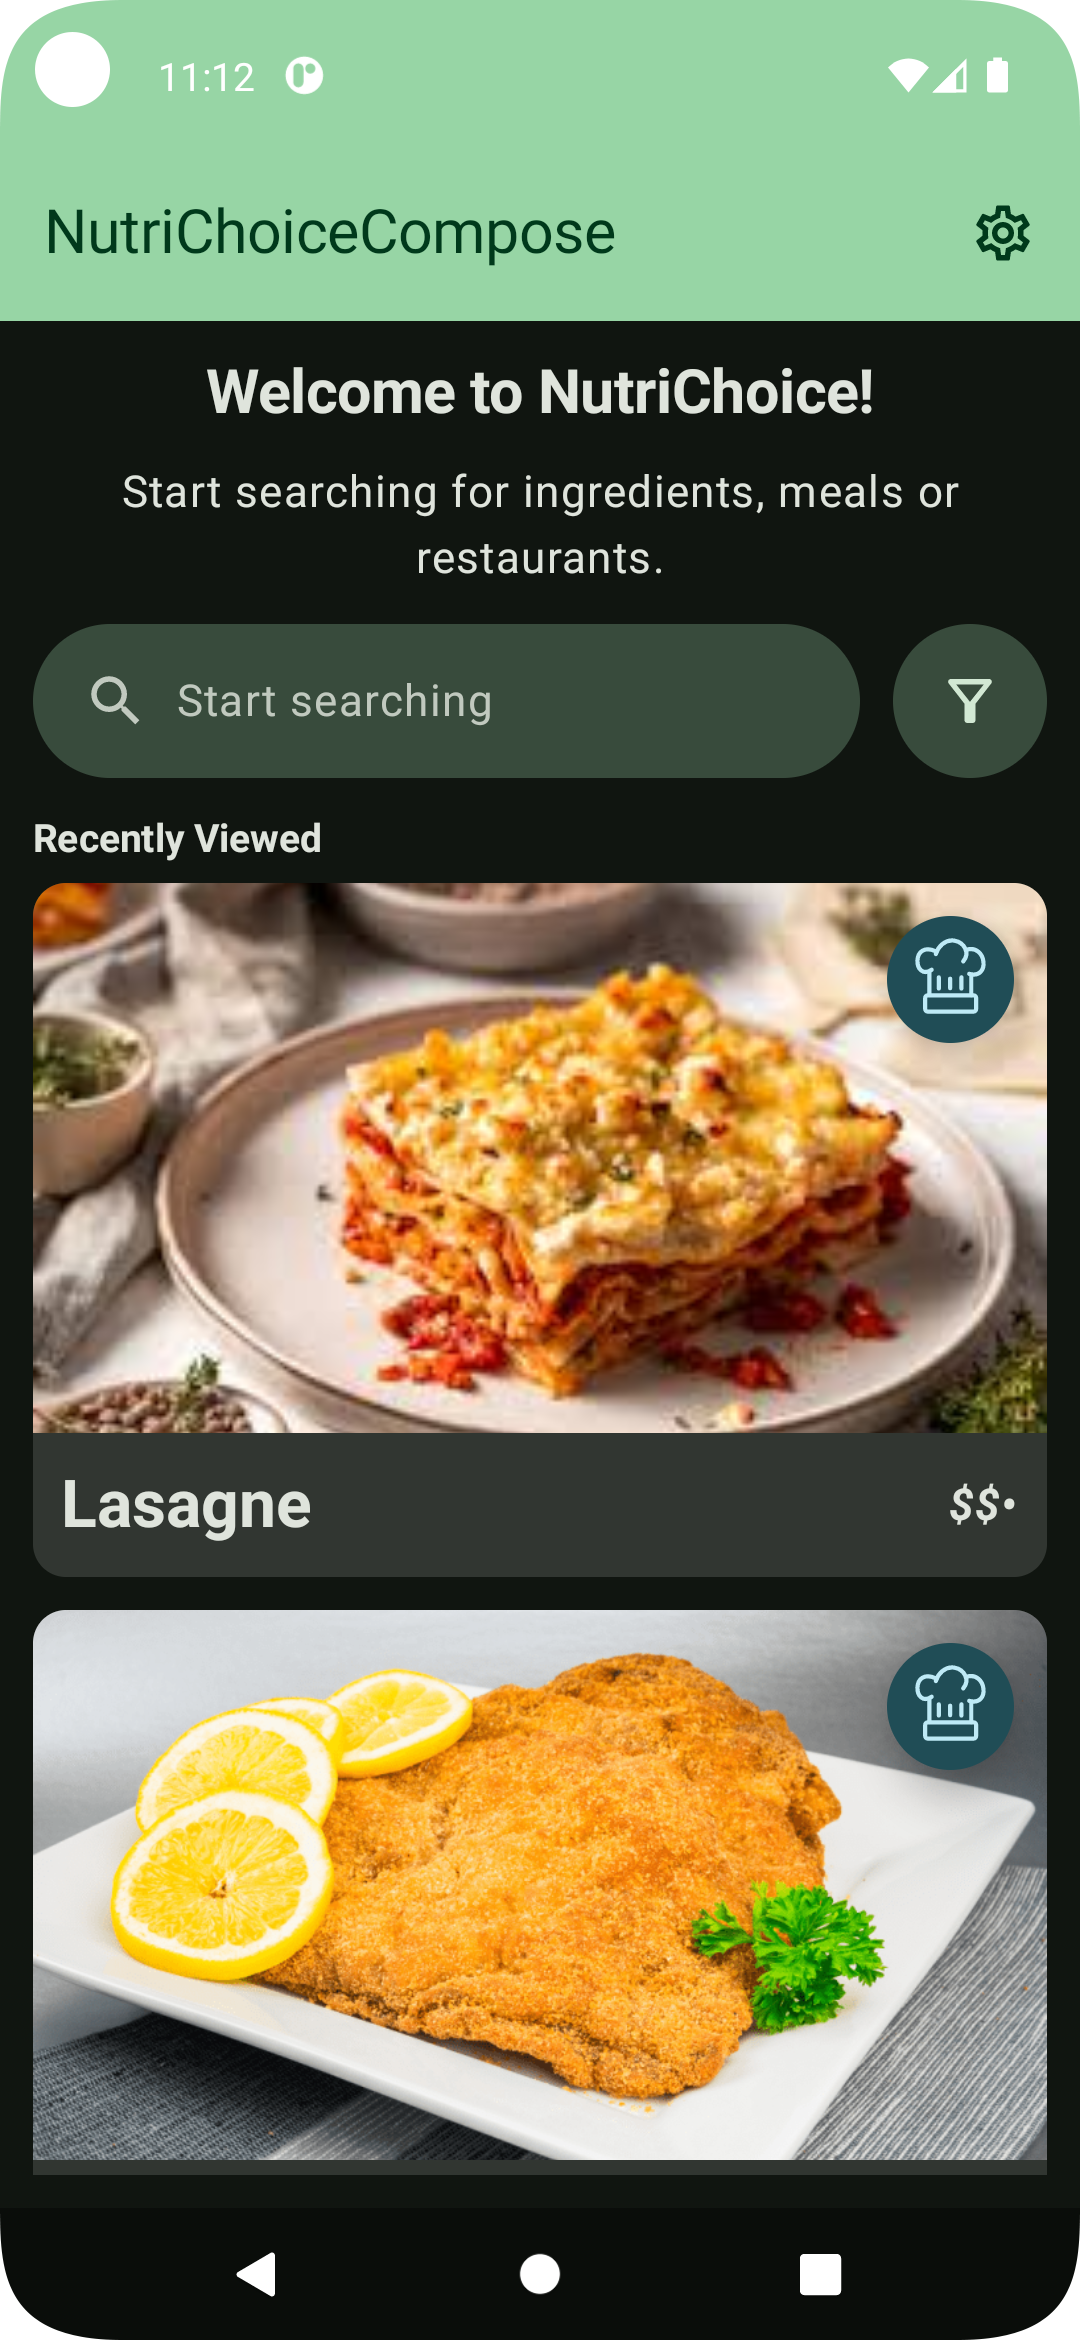
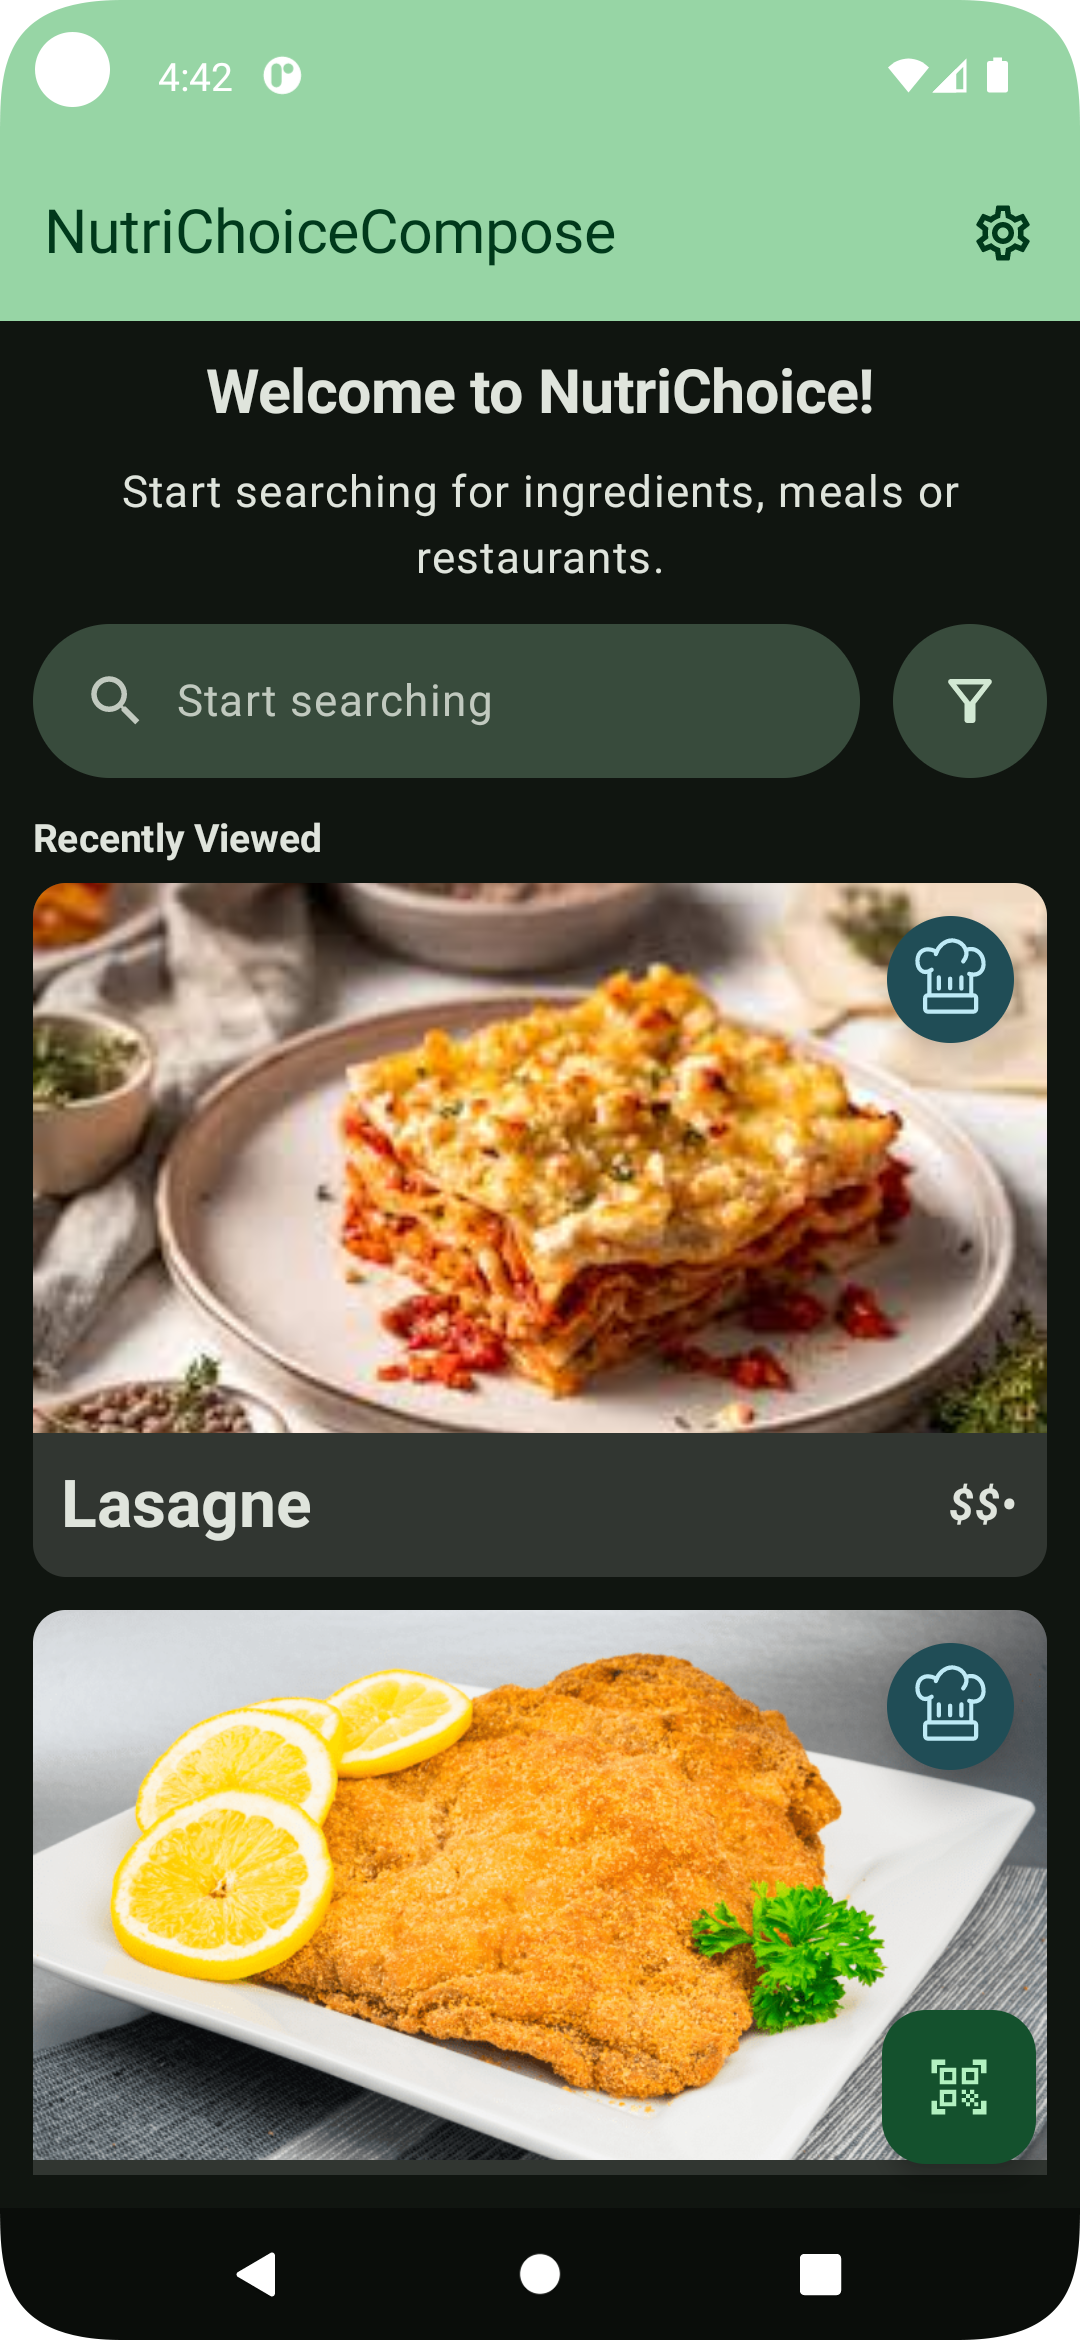
Update pictures in `README`
Add the QR scanner screen and update the home screen pic because of the floating action button.

Changed region(s): [[0.7944, 0.8423, 0.9778, 0.9359], [0.2444, 0.0, 0.3056, 0.0624], [0.1528, 0.0312, 0.2139, 0.0624]]

diff --git a/README.md b/README.md
@@ -22,6 +22,10 @@ UI made for the Pixel 5 API 30 Android Emulator
     <tr>
         <th><img src="assets/FoodDetailScreenIngredientsDark.png" alt="Food detail screen scrolled down to the ingredients in dark mode"></th>
         <th><img src="assets/SettingsScreenDark.png" alt="Settings screen in dark mode"></th>
+        <th><img src="assets/QRScannerScreenPermissionRequestDark.png" alt="QR scanner screen permission request in dark mode"></th>
+    </tr>
+    <tr>
+        <th><img src="assets/QRScannerScreenDark.png" alt="QR scanner screen in dark mode"></th>
     </tr>
 </table>
 
@@ -40,5 +44,9 @@ UI made for the Pixel 5 API 30 Android Emulator
     <tr>
         <th><img src="assets/FoodDetailScreenIngredientsLight.png" alt="Food detail screen scrolled down to the ingredients in light mode"></th>
         <th><img src="assets/SettingsScreenLight.png" alt="Settings screen in light mode"></th>
+        <th><img src="assets/QRScannerScreenPermissionRequestLight.png" alt="QR scanner screen permission request in light mode"></th>
+    </tr>
+    <tr>
+        <th><img src="assets/QRScannerScreenLight.png" alt="QR scanner screen in light mode"></th>
     </tr>
 </table>
